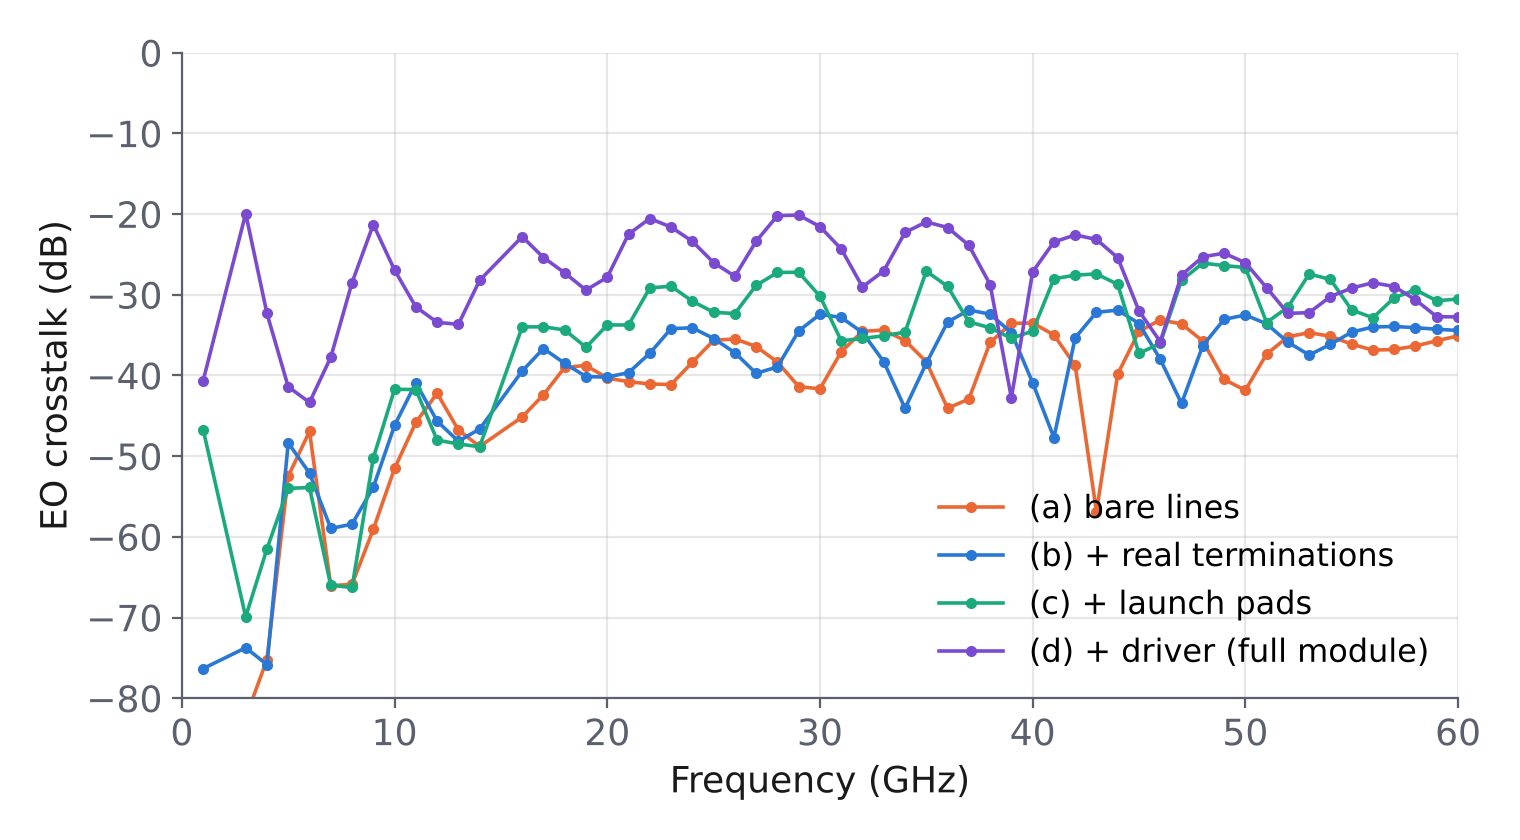
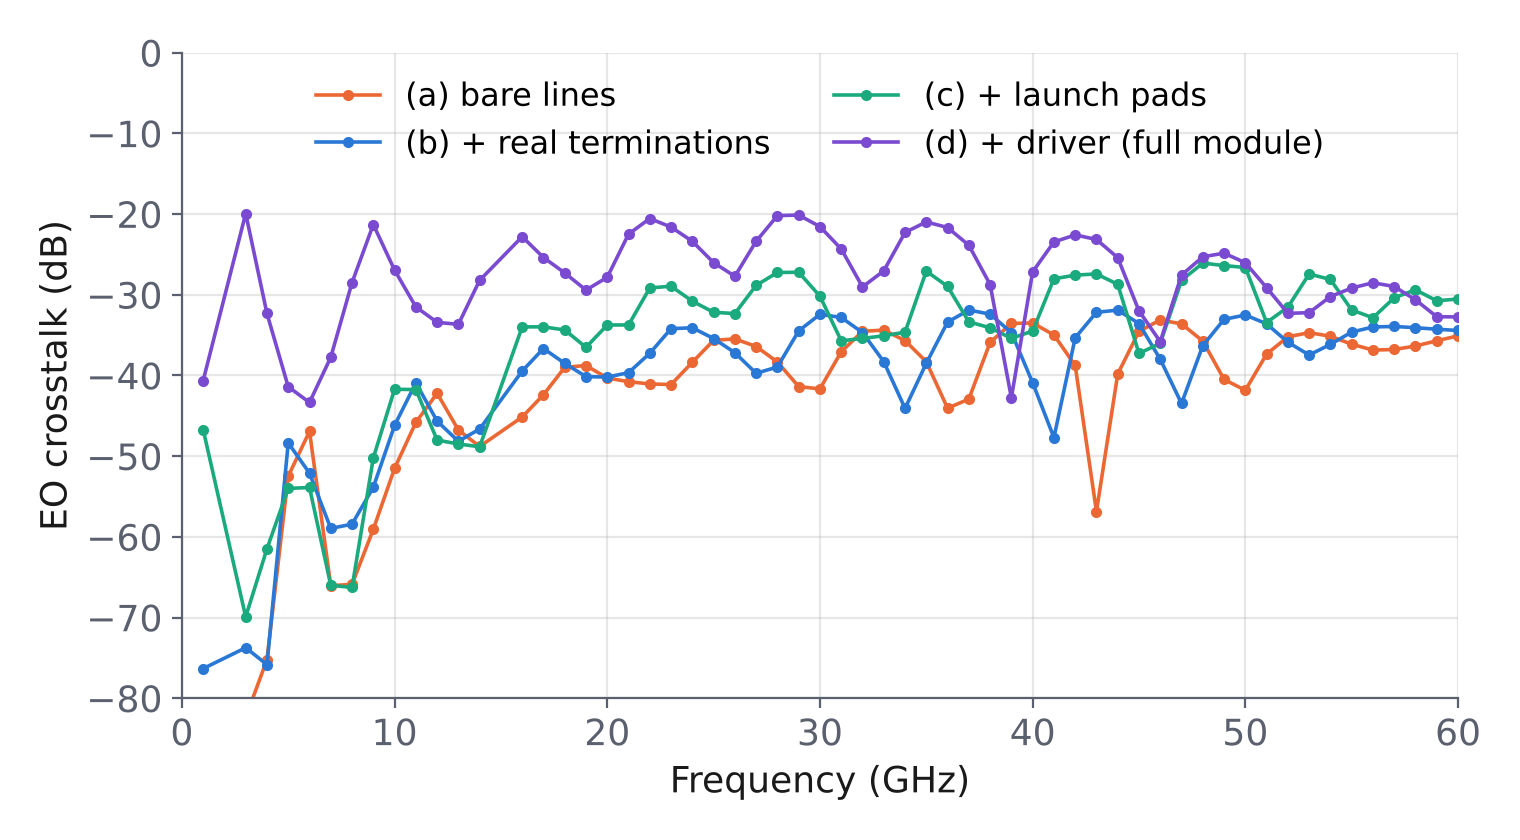
Istanbul deck source: slide 9 levels defined (median, maximum), ripple delay explained, legend clear of curves
Claude-Session: https://claude.ai/code/session_01PF7RKNjFsSkyjm1syGCUrV

diff --git a/docs/cst/xtalk/deck/build_istanbul.py b/docs/cst/xtalk/deck/build_istanbul.py
@@ -183,14 +183,17 @@ for i, (img, head, body) in enumerate(cells):
     text(s, x + 3.65, y + 0.1, 2.45, 2.4, [(head, {"bold": True, "color": NAVY, "size": 14})] + [(body, {"size": 12.5})], sa=4)
 
 # 9 ---------------------------------------------------------------- results
-s = new(); title(s, "EO crosstalk: effect of each element", "Medians over 5–60 GHz (2 and 15 GHz excluded: corrupted export in run c)")
-fig(s, "istanbul_eo_abcd.png", 0.5, 1.55, 7.2, 4.1, "EO crosstalk of the four Istanbul runs")
-table(s, 7.9, 1.55, 4.95, [["Step", "EO change", "Cause"],
+s = new(); title(s, "EO crosstalk: effect of each element", "One EO crosstalk value per frequency (whole 8.75 mm line); levels summarised over 5–60 GHz")
+fig(s, "istanbul_eo_abcd.png", 0.5, 1.55, 7.2, 3.98, "EO crosstalk of the four Istanbul runs")
+table(s, 0.5, 5.65, 7.2, [["Run", "Median 5–60 GHz", "Maximum 5–60 GHz"],
+      ["(a) bare lines", "−38.4 dB", "−33.1 dB at 46 GHz"], ["(b) + real terminations", "−36.7 dB", "−31.9 dB at 37 GHz"],
+      ["(c) + launch pads", "−32.8 dB", "−26.1 dB at 48 GHz"], ["(d) + driver (full module)", "−27.3 dB", "−20.1 dB at 29 GHz"]], [2.6, 2.0, 2.6], size=11, row_h=0.26)
+table(s, 7.9, 1.55, 4.95, [["Step", "Median change", "Cause"],
       ["(a) → (b)", "+1.5 dB", "≈ 50 Ω like the port of (a); different reflection phase at the far-end pads"],
       ["(a) → (c)", "+5.4 dB", "Pads couple a wave onto B at the line input, then carried along with the light"],
-      ["(c) → (d)", "+6.4 dB\n(≥ 10 dB below 10 GHz)", "Driver carrier and bond wires inject a strong victim signal before the line"]], [1.05, 1.25, 2.65], size=11.5, row_h=1.0, hl=(3,))
-card(s, 7.9, 5.75, 4.95, 1.15, "Ripple", ["Period 6.2–6.8 GHz in all four runs: a property of the line (round trip ≈ 150 ps)."], size=12.5)
-text(s, 0.5, 5.8, 7.2, 1.0, "Bare line: −38.4 dB · real termination: −36.7 dB · launch pads: −32.8 dB · full module: −27.3 dB", size=13, color=MUTED)
+      ["(c) → (d)", "+6.4 dB\n(≥ 10 dB below 10 GHz)", "Driver carrier and bond wires inject a strong victim signal before the line"]], [1.05, 1.25, 2.65], size=11.5, row_h=0.95, hl=(3,))
+card(s, 7.9, 5.5, 4.95, 1.45, "Ripple", ["Period 6.2–6.9 GHz in all runs, i.e. two victim contributions 1/Δf ≈ 150 ps apart: one trip along the line (65 ps, S_{21}) plus a slower return (≈ 85 ps, n ≈ 3)."], size=11.5)
+note(s, "Median over the 54 monitor frequencies 5-60 GHz of the EO crosstalk in dB (2 and 15 GHz excluded: corrupted export in run c). The curve ripples by 10-20 dB with deep notches: a mean of dB values is pulled down by the notches, a mean of power is dominated by the peaks; the median is the level the curve exceeds at half of the frequencies. Power means: -37.6, -36.0, -31.0, -25.3 dB. Ripple: periodogram of the detrended dB curve, 6.94 / 6.60 / 6.24 / 6.67 GHz for a / b / c / d. One-way group delay of S21 (run a) 64-68 ps (n_g 2.2-2.3); the return at n about 3 is consistent with the wave guided between the electrodes and the conductive bottom.")
 
 # 10 --------------------------------------------------------------- EO vs FEXT
 s = new(); title(s, "Full module: EO crosstalk ≈ FEXT", "The driver-side coupling places the victim signal at the line input")

diff --git a/docs/cst/xtalk/deck/istanbul_figs.py b/docs/cst/xtalk/deck/istanbul_figs.py
@@ -59,7 +59,8 @@ LAB = {"a": "(a) bare lines", "b": "(b) + real terminations", "c": "(c) + launch
 COL = {"a": ORANGE, "b": BLUE, "c": TEAL, "d": PURPLE}
 fig, ax = ax_(figsize=(7.6, 4.2), ylim=(-80, 0))
 for r in "abcd": ax.plot(f, EO[r], "o-", ms=3, lw=1.3, color=COL[r], label=LAB[r])
-save(fig, ax, "istanbul_eo_abcd.png")
+ax.legend(frameon=False, fontsize=11.5, loc="upper center", ncol=2); fig.tight_layout()
+fig.savefig(os.path.join(OUT, "istanbul_eo_abcd.png"), dpi=200); plt.close(fig)
 for a_, b_ in (("a", "b"), ("b", "c"), ("c", "d")):
     fig, ax = ax_(figsize=(7.0, 3.9), ylim=(-80, 0))
     for r in "abcd":
